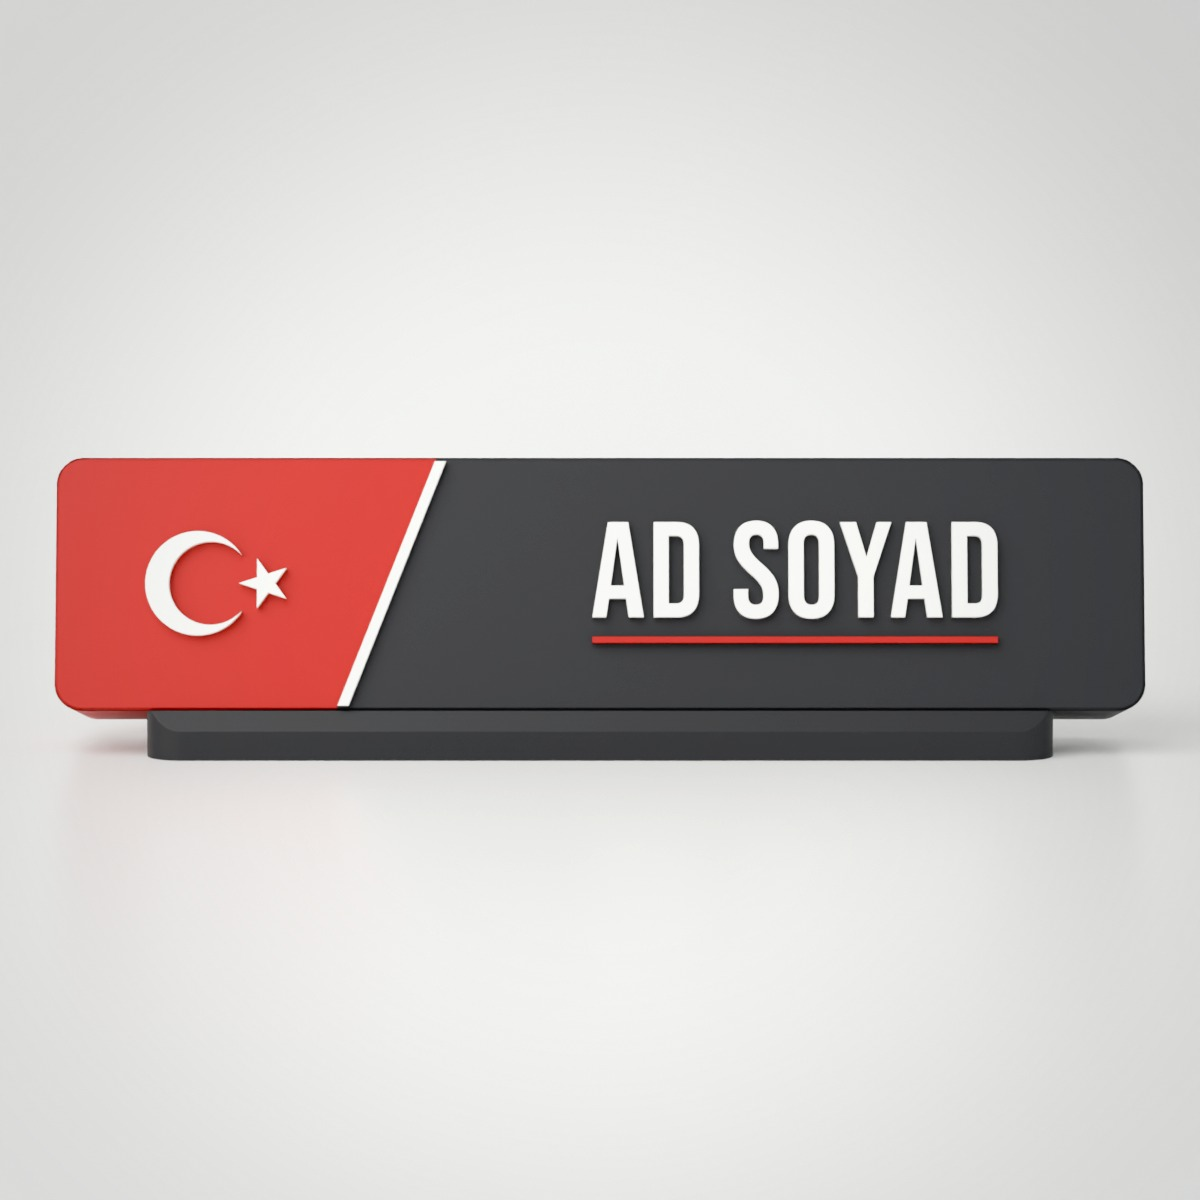
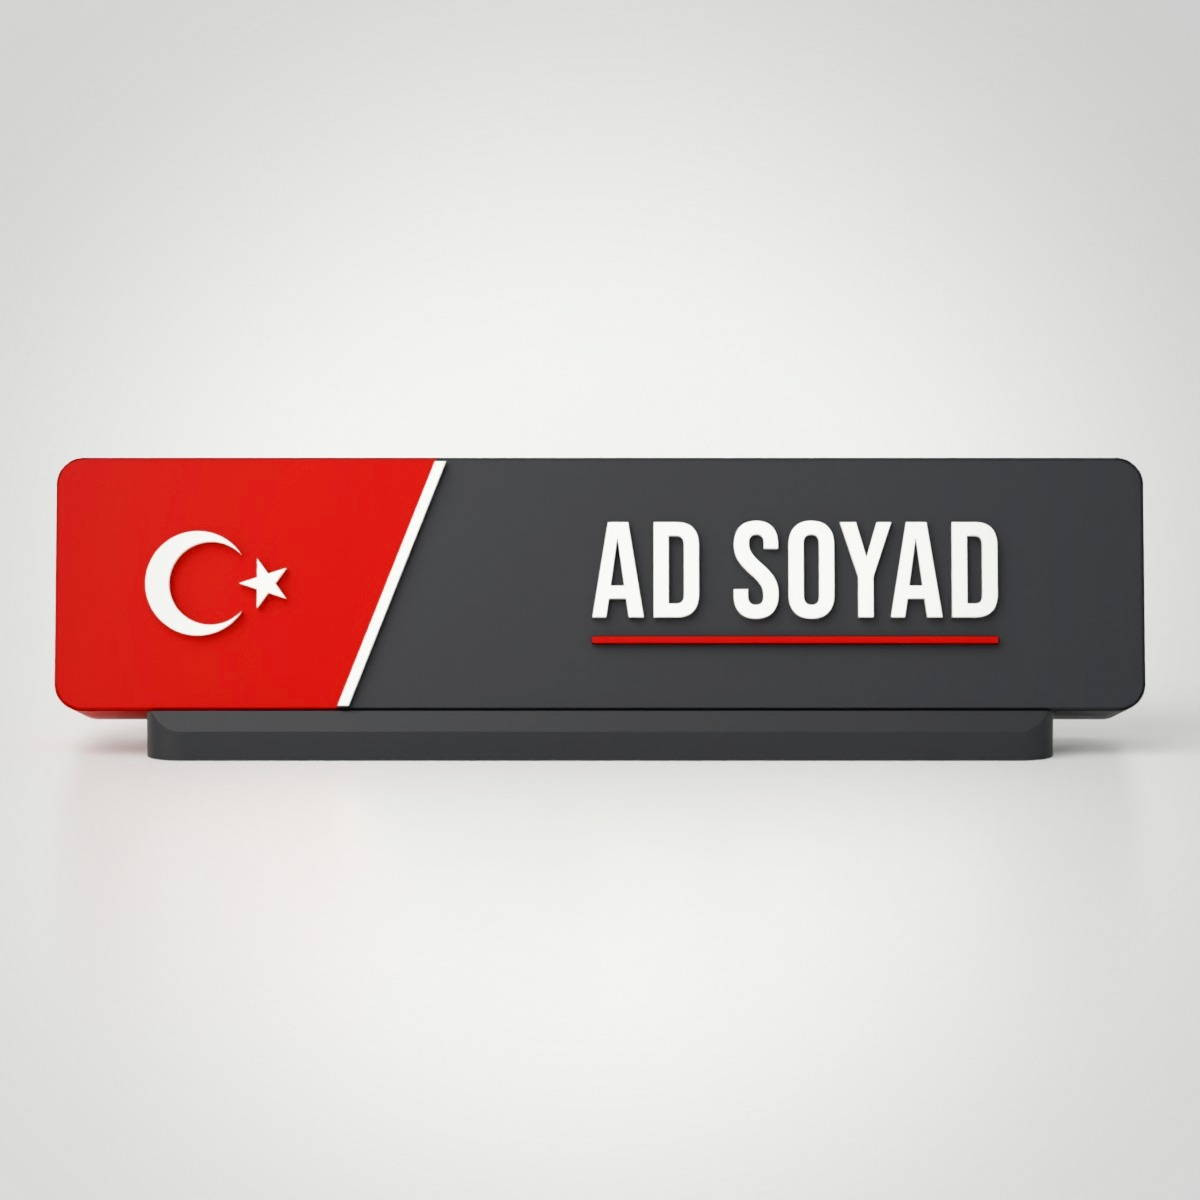
Bayraklı masa isimliği: Shopier görselleri ve fotoğraflar
Dört Blender fotoğrafı (stüdyo, karşıdan, masa, yakın); bayrak kırmızısı
koyu çizilip seçici doygunlukla düzeltildi (AgX somona açıyordu).
shopier/bayrakli/: 01 kapak, 02-05 BOYDE çerçevesinde fotoğraflar,
06 ölçü ve özellikler, 07 nasıl sipariş verilir.

Claude-Session: https://claude.ai/code/session_01DYSZWrkNx3UmjJ19VqHJCk

Changed region(s): [[0.0308, 0.37, 0.37, 0.6167], [0.4933, 0.5242, 0.8325, 0.555]]

diff --git a/scripts/bayrakli_isimlik_shopier.py b/scripts/bayrakli_isimlik_shopier.py
@@ -184,7 +184,9 @@ def shopier():
               <span style="position:absolute;right:-30px;top:50%;transform:translate(50%,-50%) rotate(90deg);
                 background:{PAPER};padding:0 12px;font-weight:700;font-size:24px">56 mm</span></div></div>
           <ul style="margin-top:70px;list-style:none;display:grid;gap:14px;font-size:27px;line-height:1.35">{feats}</ul>
-          <div style="position:absolute;right:64px;bottom:56px">{K.logo("acik", 260, 52)}</div></div>""",
+          <img src="{foto('detay', 1100)}" style="position:absolute;left:64px;top:792px;width:1072px;height:344px;
+            object-fit:cover;object-position:50% 40%;border-radius:22px;display:block">
+          <div style="position:absolute;right:64px;top:64px">{K.logo("acik", 240, 48)}</div></div>""",
              out(6, "olcu_ozellik"))
 
         # nasıl sipariş verilir (katalogdaki "nasıl çalışır" gibi)
@@ -199,7 +201,7 @@ def shopier():
           <p style="margin-top:22px;font-size:26px;color:rgba(244,241,234,.8)">Her isimlik sipariş üzerine, adınızla
             basılır.</p>
           <div style="margin-top:34px">{rows}</div>
-          <img src="{foto('masa', 1100)}" style="margin-top:18px;width:100%;height:170px;object-fit:cover;
+          <img src="{foto('masa', 1100)}" style="margin-top:18px;width:100%;height:230px;object-fit:cover;
             border-radius:22px;display:block">
           <div style="position:absolute;left:64px;bottom:50px">{K.logo("koyu", 300, 60)}</div>
           <p style="position:absolute;right:64px;bottom:60px;font-size:26px;font-weight:700">{K.TEL}</p></div>""",
